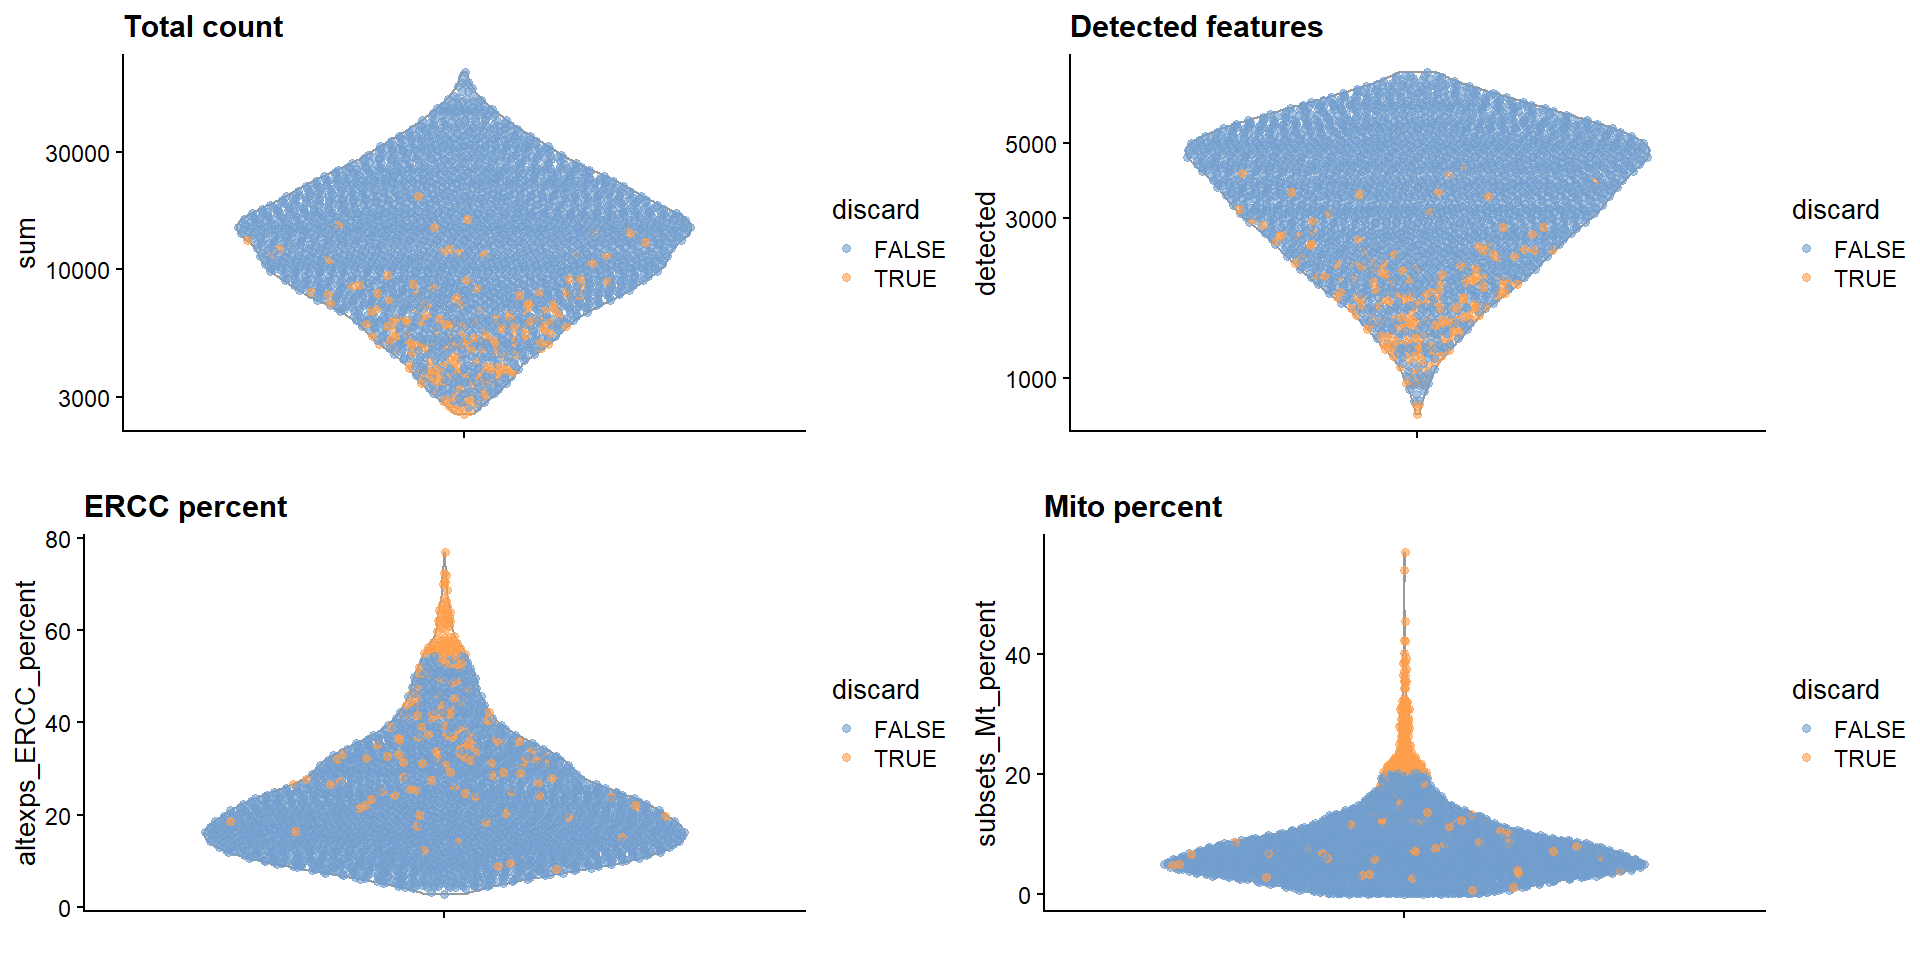
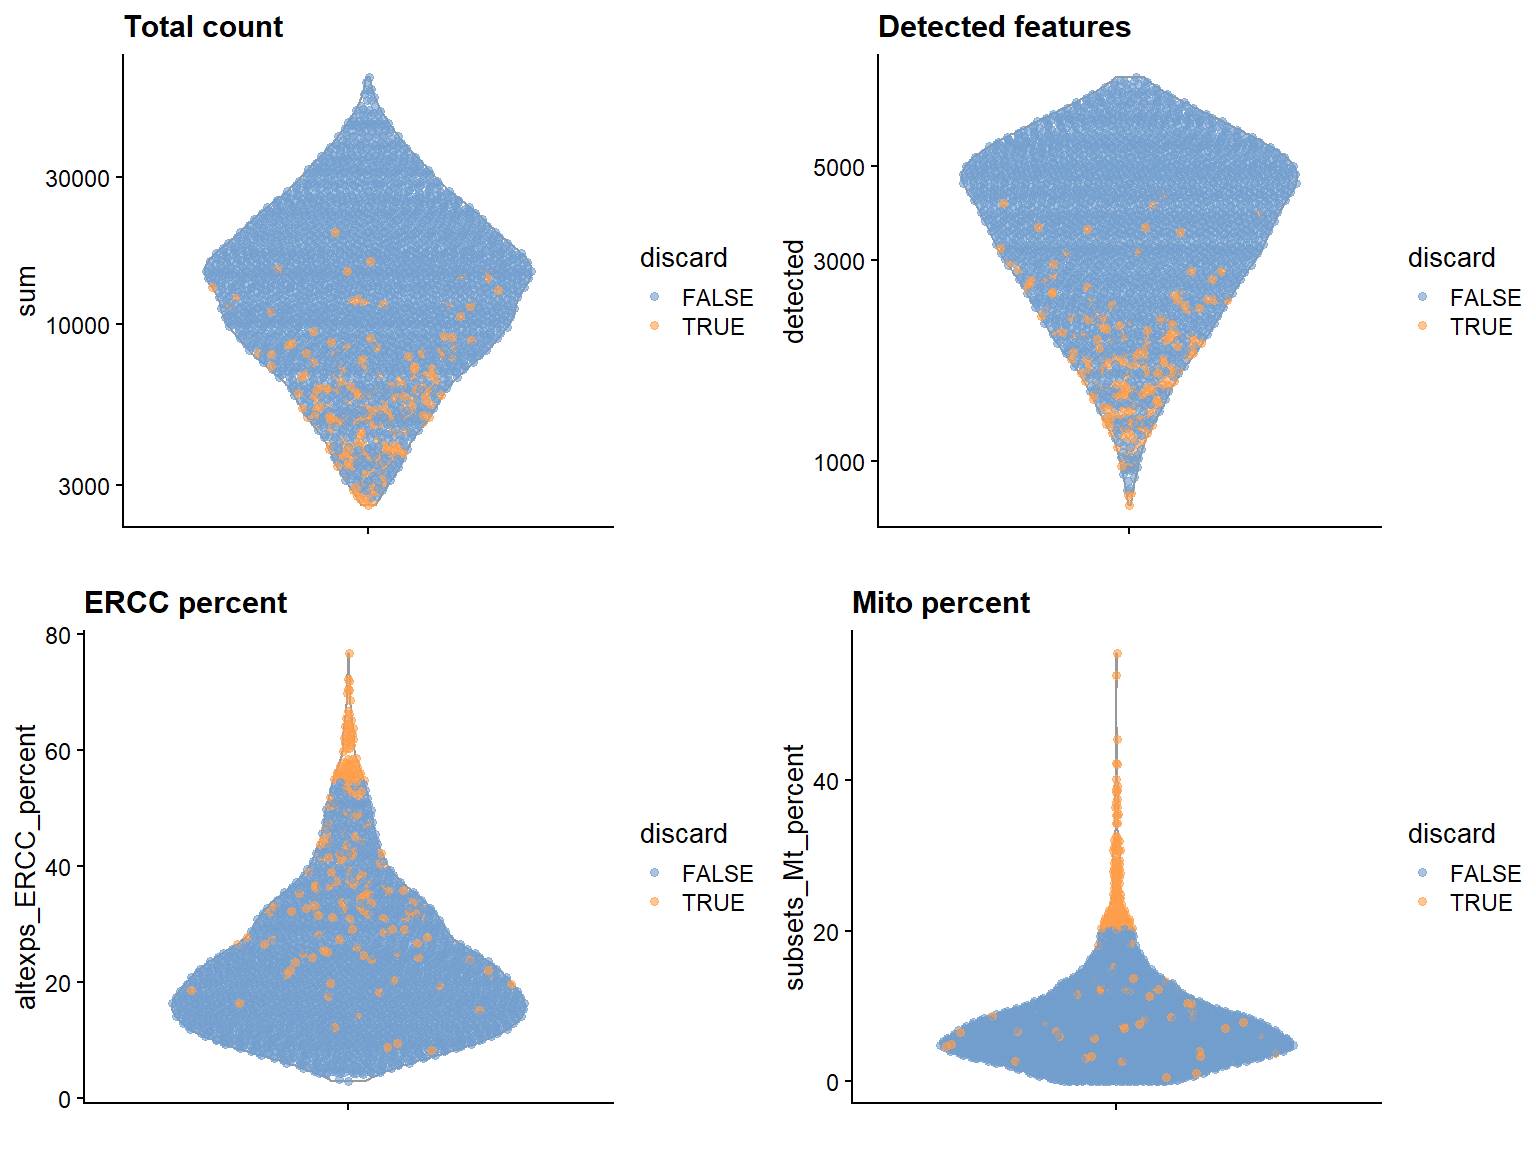
more edits

diff --git a/index.html b/index.html
@@ -143,9 +143,9 @@ Thomas Walsh
 
   <p class="date">2026-05-04</p>
 </section>
-<section id="overview" class="title-slide slide level2 center">
+<section id="overview" class="slide level2">
 <h2>Overview</h2>
-<p>This workflow demonstrates a complete single-cell RNA-seq (scRNA-seq) analysis pipeline using Bioconductor tools to:</p>
+<p>This workflow demonstrates a complete single-cell RNA-seq (scRNA-seq) analysis pipeline to Identify distinct brain cell populations (e.g., interneurons) from heterogeneous data.</p>
 <ul>
 <li>Process raw single-cell gene expression data</li>
 <li>Remove low-quality cells</li>
@@ -154,10 +154,8 @@ Thomas Walsh
 <li>Cluster cells into distinct populations</li>
 <li>Detect marker genes to assign cell types</li>
 </ul>
-<p>Goal: Identification of distinct brain cell populations (e.g., interneurons) from heterogeneous data.</p>
 </section>
-
-<section id="zeisel-mouse-brain-dataset" class="title-slide slide level2 center">
+<section id="zeisel-mouse-brain-dataset" class="slide level2">
 <h2>Zeisel Mouse Brain Dataset</h2>
 <ul>
 <li>~3,000 single cells</li>
@@ -168,8 +166,7 @@ Thomas Walsh
 </ul>
 <p>Highly heterogeneous, which is ideal for clustering Well-annotated for easy biological validation</p>
 </section>
-
-<section id="data-loading-cleaning" class="title-slide slide level2 center">
+<section id="data-loading-cleaning" class="slide level2">
 <h2>Data Loading &amp; Cleaning</h2>
 <ul>
 <li>Loaded dataset into <code>SingleCellExperiment</code></li>
@@ -177,33 +174,63 @@ Thomas Walsh
 <li>Fetch the Ensembl gene IDs</li>
 </ul>
 </section>
-
-<section id="quality-control" class="title-slide slide level2 center">
+<section id="quality-control" class="slide level2">
 <h2>Quality Control</h2>
 <p>Remove low-quality cells QC metrics: Library size Detected genes Mitochondrial % ERCC %</p>
 <p>QC Results: Low features: 3 cells High ERCC: 65 cells High mitochondrial: 128 cells Total removed: 189</p>
+<div class="cell">
+<div class="cell-output-display">
+<div class="quarto-figure quarto-figure-center">
+<figure>
+<p><img data-src="index_files/figure-revealjs/unnamed-chunk-3-1.png" width="768"></p>
+<figcaption>Figure 1: Distribution of each QC metric across cells in the Zeisel brain dataset. Each point represents a cell and is colored according to whether that cell was discarded.</figcaption>
+</figure>
+</div>
+</div>
+<div class="cell-output cell-output-stdout">
+<pre><code>TableGrob (2 x 2) "arrange": 4 grobs
+  z     cells    name           grob
+1 1 (1-1,1-1) arrange gtable[layout]
+2 2 (1-1,2-2) arrange gtable[layout]
+3 3 (2-2,1-1) arrange gtable[layout]
+4 4 (2-2,2-2) arrange gtable[layout]</code></pre>
+</div>
+</div>
+<div class="cell">
+<div class="cell-output-display">
+<div class="quarto-figure quarto-figure-center">
+<figure>
+<p><img data-src="index_files/figure-revealjs/unnamed-chunk-4-1.png" width="960"></p>
+<figcaption>Figure 2: Percentage of mitochondrial reads in each cell in the Zeisel brain dataset, compared to the total count (left) or the percentage of spike-in reads (right). Each point represents a cell and is colored according to whether that cell was discarded.</figcaption>
+</figure>
+</div>
+</div>
+</div>
 </section>
-
-<section id="normalization" class="title-slide slide level2 center">
+<section id="normalization" class="slide level2">
 <h2>Normalization</h2>
 <p>Normalize for sequencing depth Use deconvolution size factors</p>
-</section>
 
-<section id="variance-modeling" class="title-slide slide level2 center">
+<img data-src="index_files/figure-revealjs/unnamed-chunk-6-1.png" width="960" class="r-stretch"></section>
+<section id="variance-modeling" class="slide level2">
 <h2>Variance Modeling</h2>
 <p>Identify highly variable genes Separate biological vs technical variance</p>
-</section>
 
-<section id="dimensionality-reduction" class="title-slide slide level2 center">
+<img data-src="index_files/figure-revealjs/unnamed-chunk-8-1.png" width="960" class="r-stretch quarto-figure-center"><p class="caption">Figure 4: Per-gene variance as a function of the mean for the log-expression values in the Zeisel brain dataset. Each point represents a gene (black) with the mean-variance trend (blue) fitted to the spike-in transcripts (red).</p></section>
+<section id="dimensionality-reduction" class="slide level2">
 <h2>Dimensionality Reduction</h2>
 <ul>
 <li>PCA for denoising</li>
 <li>t-SNE for visualization</li>
 <li>number of PCs retained by <code>denoisePCA()</code>.</li>
 </ul>
+<div class="cell">
+<div class="cell-output cell-output-stdout">
+<pre><code>[1] 50</code></pre>
+</div>
+</div>
 </section>
-
-<section id="clustering-t-sne-visualization" class="title-slide slide level2 center">
+<section id="clustering-t-sne-visualization" class="slide level2">
 <h2>Clustering &amp; t-SNE Visualization</h2>
 <ul>
 <li>Each point = cell</li>
@@ -211,9 +238,16 @@ Thomas Walsh
 <li>Graph-based clustering</li>
 <li>14 clusters identified</li>
 </ul>
-</section>
+<div class="cell">
+<div class="cell-output cell-output-stdout">
+<pre><code>
+  1   2   3   4   5   6   7   8   9  10  11  12  13  14 
[phone redacted] 167 191 128 350  70 199  58  39  24 </code></pre>
+</div>
+</div>
 
-<section id="marker-detection" class="title-slide slide level2 center">
+<img data-src="index_files/figure-revealjs/unnamed-chunk-12-1.png" width="960" class="r-stretch"></section>
+<section id="marker-detection" class="slide level2">
 <h2>Marker Detection</h2>
 <ul>
 <li>Identify cluster-specific genes</li>
@@ -222,22 +256,21 @@ Thomas Walsh
 <p>Top markers for Cluster 1: * Gad1 * Gad2 * Slc32a1</p>
 <p><strong>Indicates interneurons</strong></p>
 </section>
-
-<section id="marker-heatmap" class="title-slide slide level2 center">
+<section id="marker-heatmap" class="slide level2">
 <h2>Marker Heatmap</h2>
 <ul>
 <li>Visualize expression across clusters</li>
 </ul>
-</section>
 
-<section id="logfc-heatmap" class="title-slide slide level2 center">
+<img data-src="index_files/figure-revealjs/unnamed-chunk-14-1.png" width="960" class="r-stretch quarto-figure-center"><p class="caption">Figure 6: Heatmap of the log-expression of the top markers for cluster 1 compared to each other cluster. Cells are ordered by cluster and the color is scaled to the log-expression of each gene in each cell.</p></section>
+<section id="logfc-heatmap" class="slide level2">
 <h2>LogFC Heatmap</h2>
 <ul>
 <li>Compare marker strength across clusters</li>
 </ul>
-</section>
 
-<section id="summary" class="title-slide slide level2 center">
+<img data-src="index_files/figure-revealjs/unnamed-chunk-15-1.png" width="960" class="r-stretch"></section>
+<section id="summary" class="slide level2">
 <h2>Summary</h2>
 <ul>
 <li>Processed scRNA-seq dataset</li>
@@ -246,9 +279,13 @@ Thomas Walsh
 <li>Interneurons identified in Cluster 1</li>
 </ul>
 </section>
-
-<section id="references" class="title-slide slide level2 center">
+<section id="references" class="slide level2">
 <h2>References</h2>
+<ul>
+<li><p>Pollen, A. A., T. J. Nowakowski, J. Shuga, X. Wang, A. A. Leyrat, J. H. Lui, N. Li, et al.&nbsp;2014. “Low-coverage single-cell mRNA sequencing reveals cellular heterogeneity and activated signaling pathways in developing cerebral cortex.” Nat. Biotechnol. 32 (10): 1053–8.</p></li>
+<li><p>Zeisel, A., A. B. Munoz-Manchado, S. Codeluppi, P. Lonnerberg, G. La Manno, A. Jureus, S. Marques, et al.&nbsp;2015. “Brain structure. Cell types in the mouse cortex and hippocampus revealed by single-cell RNA-seq.” Science 347 (6226): 1138–42.</p></li>
+<li><p>Zeng, H., E. H. Shen, J. G. Hohmann, S. W. Oh, A. Bernard, J. J. Royall, K. J. Glattfelder, et al.&nbsp;2012. “Large-scale cellular-resolution gene profiling in human neocortex reveals species-specific molecular signatures.” Cell 149 (2): 483–96.</p></li>
+</ul>
 
 </section>
     </div>